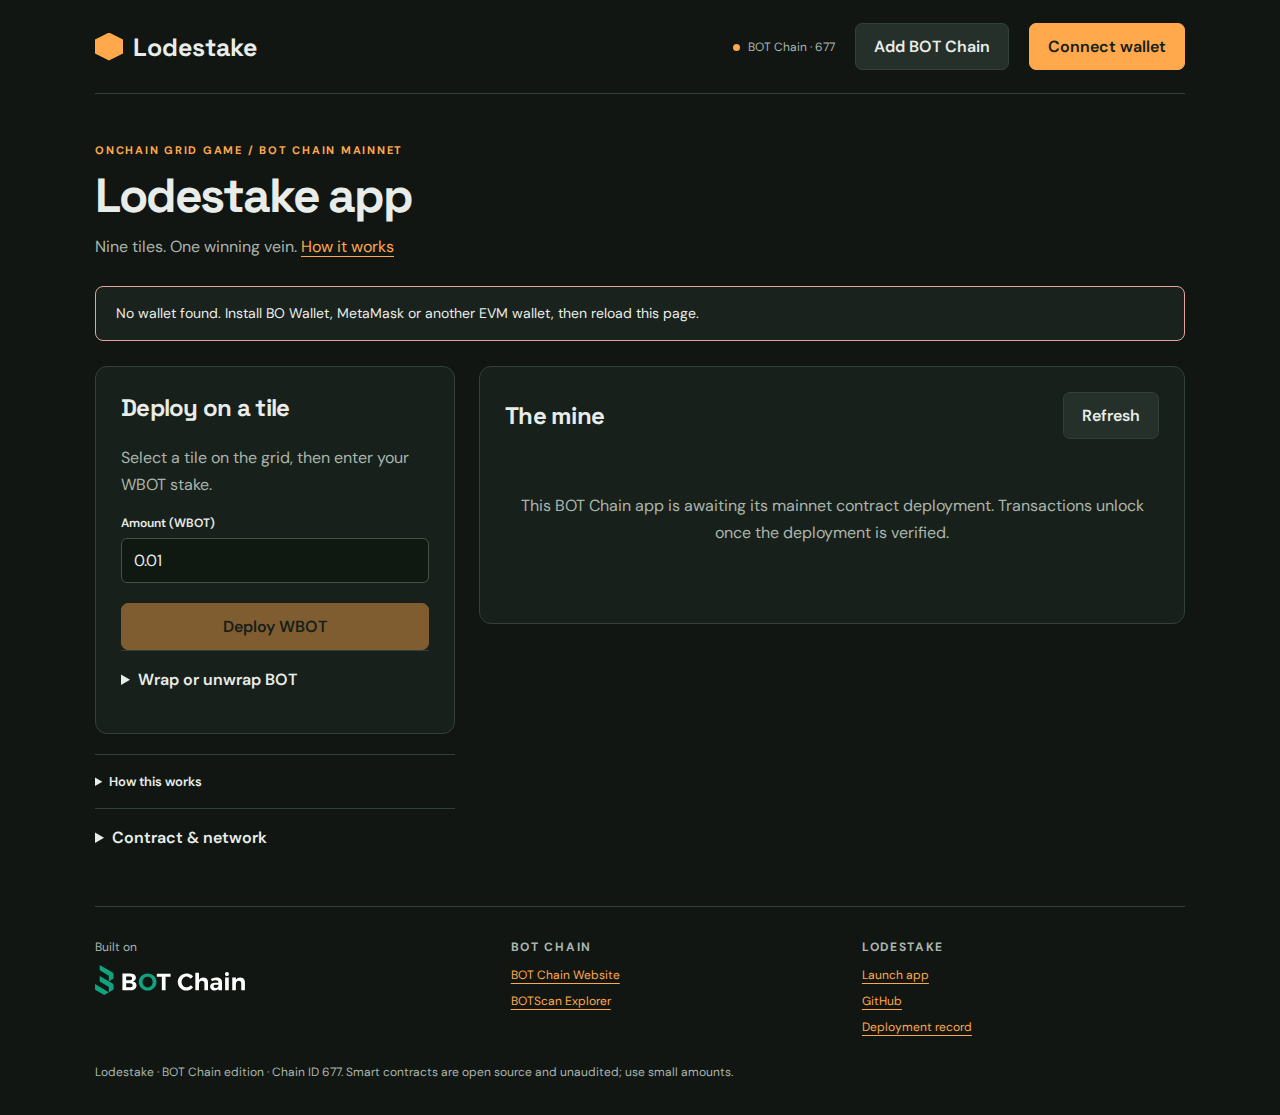
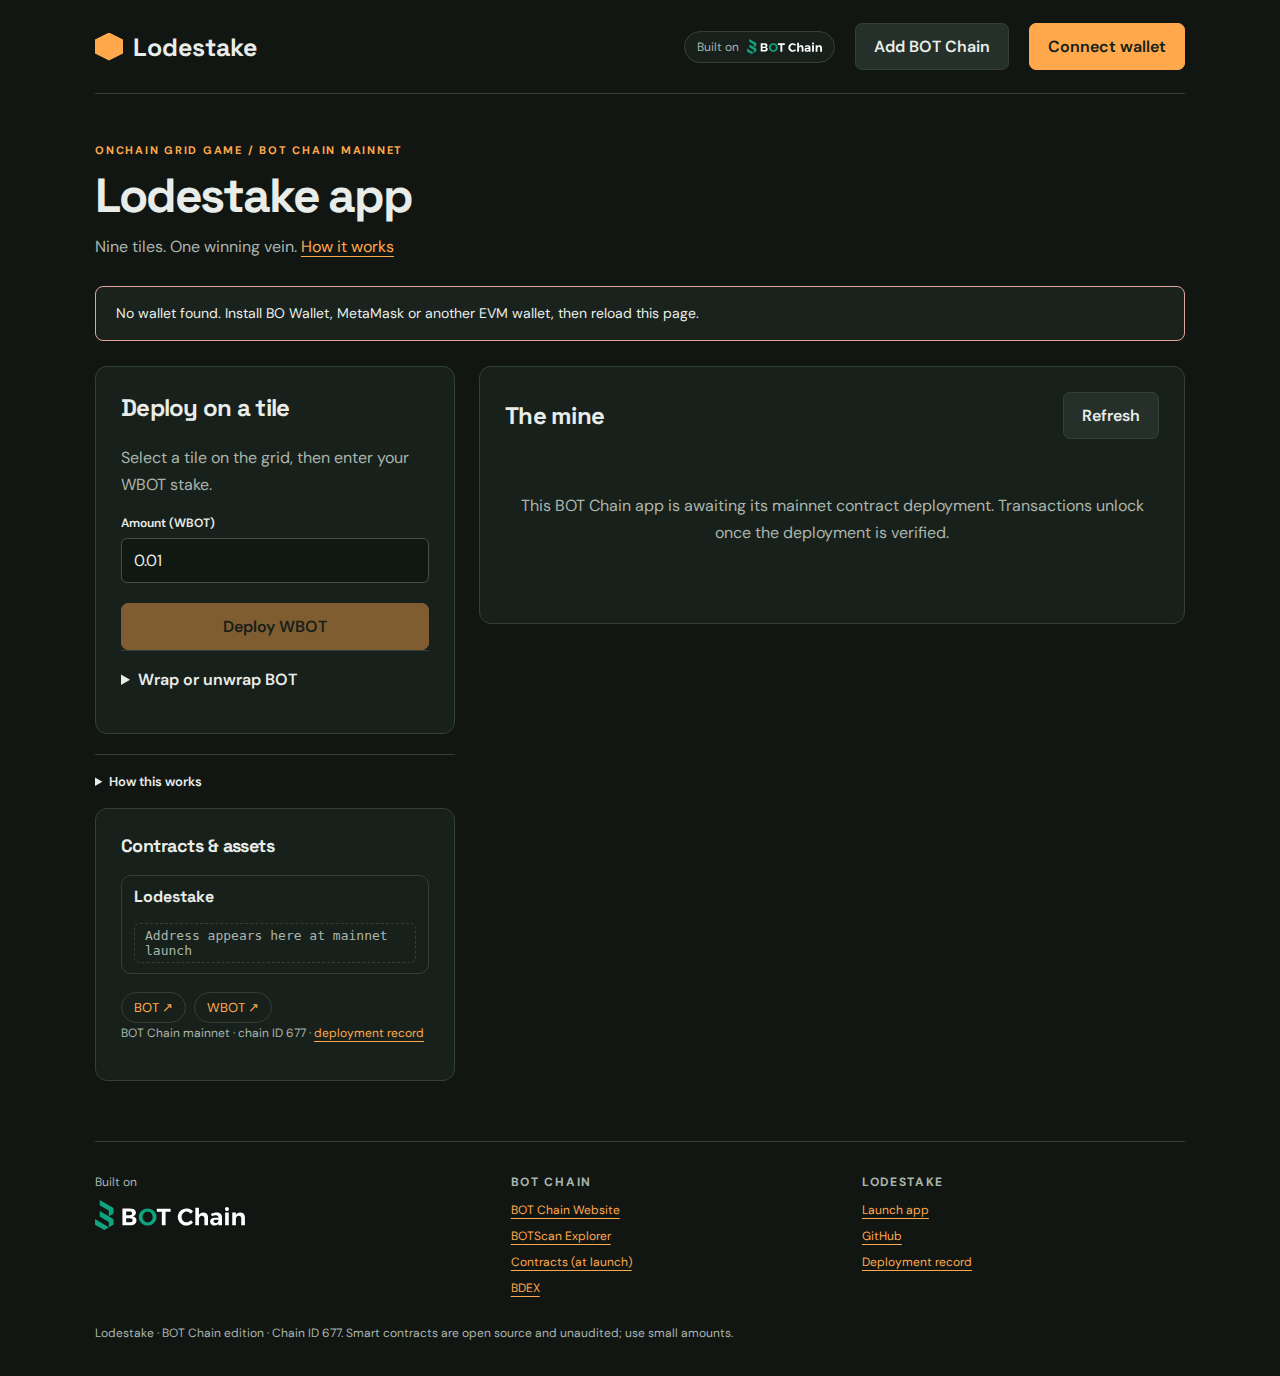
Move sites to Vercel; BOT Chain branding and linked contracts

diff --git a/web/landing.html b/web/landing.html
@@ -1,1 +1,1 @@
-<!doctype html><html lang="en"><head><meta charset="UTF-8"><meta name="viewport" content="width=device-width,initial-scale=1"><meta name="theme-color" content="#111613"><title>__NAME__ · BOT Chain</title><meta name="description" content="__DESCRIPTION__"><meta property="og:title" content="__NAME__ · BOT Chain"><meta property="og:description" content="__DESCRIPTION__"><meta property="og:type" content="website"><meta name="twitter:card" content="summary"><link rel="icon" href="/icon.svg" type="image/svg+xml"><link rel="stylesheet" href="/style.css"></head><body><a class="skip" href="#main">Skip to content</a><div class="shell"><header><a class="brand" href="/"><span class="mark" aria-hidden="true"></span>__NAME__</a><nav class="site-nav" aria-label="Page"><a href="#how">How it works</a><a href="#features">Features</a><a href="#faq">FAQ</a><a href="__REPO_URL__" target="_blank" rel="noopener noreferrer">GitHub</a></nav><div class="header-actions"><a class="button primary" href="/app/">Launch app</a></div></header><main id="main"><section class="hero"><div><span class="eyebrow">__EYEBROW__ / BOT CHAIN</span><h1>__LINE__</h1><p>__DESCRIPTION__</p><div class="cta-row"><a class="button primary" href="/app/">Launch app</a><a class="button" href="__REPO_URL__" target="_blank" rel="noopener noreferrer">View source</a></div></div><div class="hero-art" aria-hidden="true"><div class="art-grid"><span>01</span><span>02</span><span>03</span><span>04</span><span>__SYMBOL__</span><span>06</span><span>07</span><span>08</span><span>09</span></div></div></section>__LAUNCH__<section id="how" class="band"><span class="eyebrow">How it works</span><h2>Three steps, all onchain</h2><ol class="steps">__STEPS__</ol></section><section id="features" class="band"><span class="eyebrow">Features</span><h2>Why __NAME__</h2><div class="features">__FEATURES__</div></section><section id="onchain" class="band"><span class="eyebrow">Onchain</span><h2>Verify everything</h2><dl class="facts">__FACTS__</dl></section><section id="faq" class="band"><span class="eyebrow">FAQ</span><h2>Questions</h2><div class="faq">__FAQ__</div></section><section class="cta-band"><h2>__LINE__</h2><p>Connect BO Wallet, MetaMask or any EVM wallet on BOT Chain mainnet.</p><a class="button primary" href="/app/">Launch __NAME__</a></section></main>__FOOTER__</div></body></html>
+<!doctype html><html lang="en"><head><meta charset="UTF-8"><meta name="viewport" content="width=device-width,initial-scale=1"><meta name="theme-color" content="#111613"><title>__NAME__ · BOT Chain</title><meta name="description" content="__DESCRIPTION__"><meta property="og:title" content="__NAME__ · BOT Chain"><meta property="og:description" content="__DESCRIPTION__"><meta property="og:type" content="website"><meta name="twitter:card" content="summary"><link rel="icon" href="/icon.svg" type="image/svg+xml"><link rel="stylesheet" href="/style.css"></head><body><a class="skip" href="#main">Skip to content</a><div class="shell"><header><a class="brand" href="/"><span class="mark" aria-hidden="true"></span>__NAME__</a><nav class="site-nav" aria-label="Page"><a href="#how">How it works</a><a href="#features">Features</a><a href="#contracts">Contracts</a><a href="#faq">FAQ</a><a href="__REPO_URL__" target="_blank" rel="noopener noreferrer">GitHub</a></nav><div class="header-actions"><a class="chain-badge" href="https://www.botchain.ai/" target="_blank" rel="noopener noreferrer" aria-label="Built on BOT Chain"><span>Built on</span><img src="/botchain.svg" alt="BOT Chain" width="96" height="19"></a><a class="button primary" href="/app/">Launch app</a></div></header><main id="main"><section class="hero"><div><span class="eyebrow">__EYEBROW__ / BOT CHAIN</span><h1>__LINE__</h1><p>__DESCRIPTION__</p><div class="cta-row"><a class="button primary" href="/app/">Launch app</a><a class="button" href="__REPO_URL__" target="_blank" rel="noopener noreferrer">View source</a></div></div><div class="hero-art" aria-hidden="true"><div class="art-grid"><span>01</span><span>02</span><span>03</span><span>04</span><span>__SYMBOL__</span><span>06</span><span>07</span><span>08</span><span>09</span></div></div></section>__LAUNCH__<section id="how" class="band"><span class="eyebrow">How it works</span><h2>Three steps, all onchain</h2><ol class="steps">__STEPS__</ol></section><section id="features" class="band"><span class="eyebrow">Features</span><h2>Why __NAME__</h2><div class="features">__FEATURES__</div></section><section id="onchain" class="band"><span class="eyebrow">Onchain</span><h2>Verify everything</h2><dl class="facts">__FACTS__</dl></section><section id="contracts" class="band"><span class="eyebrow">Contracts &amp; BOT Chain assets</span><h2>Every address, on BOTScan</h2><p>Each link opens the contract or token on BOTScan, the BOT Chain explorer.</p><div class="contracts">__CONTRACTS__</div><h3 class="assets-title">BOT Chain assets used</h3><ul class="assets">__ASSETS__</ul></section><section id="faq" class="band"><span class="eyebrow">FAQ</span><h2>Questions</h2><div class="faq">__FAQ__</div></section><section class="cta-band"><h2>__LINE__</h2><p>Connect BO Wallet, MetaMask or any EVM wallet on BOT Chain mainnet.</p><a class="button primary" href="/app/">Launch __NAME__</a></section></main>__FOOTER__</div></body></html>

diff --git a/web/app.html b/web/app.html
@@ -1,1 +1,1 @@
-<!doctype html><html lang="en"><head><meta charset="UTF-8"><meta name="viewport" content="width=device-width,initial-scale=1"><meta name="theme-color" content="#111613"><title>__NAME__ App · BOT Chain</title><meta name="description" content="__DESCRIPTION__"><link rel="icon" href="/icon.svg" type="image/svg+xml"><link rel="stylesheet" href="/style.css"></head><body><a class="skip" href="#main">Skip to app</a><div class="shell"><header><a class="brand" href="/"><span class="mark" aria-hidden="true"></span>__NAME__</a><div class="header-actions"><span class="network">BOT Chain · 677</span><button id="add-chain" type="button">Add BOT Chain</button><button id="connect" type="button" class="primary">Connect wallet</button></div></header><main id="main"><section class="app-intro"><span class="eyebrow">__EYEBROW__ / BOT CHAIN MAINNET</span><h1>__NAME__ app</h1><p>__LINE__ <a href="/">How it works</a></p></section><div id="status" class="status" role="status" aria-live="polite">Checking deployment…</div><div id="workspace" class="layout"><aside><div id="controls" class="panel"></div><details class="rules"><summary>How this works</summary><div id="rules"></div></details><details><summary>Contract &amp; network</summary><div id="contract" class="record"></div></details></aside><section class="panel"><div class="section-head"><h2 id="list-title">Activity</h2><button id="refresh" type="button">Refresh</button></div><div id="records" aria-live="polite"><p class="empty">Loading onchain data…</p></div></section></div></main>__FOOTER__</div><dialog id="wallets" aria-labelledby="wallets-title"><form method="dialog"><h2 id="wallets-title">Choose a wallet</h2><p class="tiny">Any EVM wallet works on BOT Chain, including BO Wallet and MetaMask.</p><div id="wallet-list" class="wallet-list"></div><button value="cancel">Cancel</button></form></dialog><script type="module" src="/app.js"></script></body></html>
+<!doctype html><html lang="en"><head><meta charset="UTF-8"><meta name="viewport" content="width=device-width,initial-scale=1"><meta name="theme-color" content="#111613"><title>__NAME__ App · BOT Chain</title><meta name="description" content="__DESCRIPTION__"><link rel="icon" href="/icon.svg" type="image/svg+xml"><link rel="stylesheet" href="/style.css"></head><body><a class="skip" href="#main">Skip to app</a><div class="shell"><header><a class="brand" href="/"><span class="mark" aria-hidden="true"></span>__NAME__</a><div class="header-actions"><a class="chain-badge compact" href="https://www.botchain.ai/" target="_blank" rel="noopener noreferrer" aria-label="Built on BOT Chain"><span>Built on</span><img src="/botchain.svg" alt="BOT Chain" width="96" height="19"></a><button id="add-chain" type="button">Add BOT Chain</button><button id="connect" type="button" class="primary">Connect wallet</button></div></header><main id="main"><section class="app-intro"><span class="eyebrow">__EYEBROW__ / BOT CHAIN MAINNET</span><h1>__NAME__ app</h1><p>__LINE__ <a href="/">How it works</a></p></section><div id="status" class="status" role="status" aria-live="polite">Checking deployment…</div><div id="workspace" class="layout"><aside><div id="controls" class="panel"></div><details class="rules"><summary>How this works</summary><div id="rules"></div></details><div class="panel contracts-panel"><h2>Contracts &amp; assets</h2><div class="contracts">__CONTRACTS__</div><ul class="assets">__ASSETS__</ul><p class="tiny">BOT Chain mainnet · chain ID 677 · <a href="/deployment.json">deployment record</a></p></div></aside><section class="panel"><div class="section-head"><h2 id="list-title">Activity</h2><button id="refresh" type="button">Refresh</button></div><div id="records" aria-live="polite"><p class="empty">Loading onchain data…</p></div></section></div></main>__FOOTER__</div><dialog id="wallets" aria-labelledby="wallets-title"><form method="dialog"><h2 id="wallets-title">Choose a wallet</h2><p class="tiny">Any EVM wallet works on BOT Chain, including BO Wallet and MetaMask.</p><div id="wallet-list" class="wallet-list"></div><button value="cancel">Cancel</button></form></dialog><script type="module" src="/app.js"></script></body></html>

diff --git a/web/products/lodestake.js b/web/products/lodestake.js
@@ -1,4 +1,4 @@
-import {$,config,state,esc,fmt,button,action,field,form,amount,read,tx,approve,client,tokenAbi,wrapForms,chainTime,start} from '../core.js';
+import {$,config,state,esc,fmt,button,action,field,form,amount,read,tx,approve,client,tokenAbi,wrapForms,chainTime,asset,start} from '../core.js';
 let selectedTile=0;
 function controls(){
  $('list-title').textContent='The mine';
@@ -7,11 +7,11 @@ function controls(){
 }
 async function render(){
  const id=await read('Lodestake','currentRoundId'),r=await read('Lodestake','getRound',[id]),totals=await read('Lodestake','getTileTotals',[id]);
- let html=`<div class="row"><span>Round</span><strong>#${id}</strong></div><div class="row"><span>Pool</span><strong>${fmt(r.totalDeployed)} WBOT</strong></div><div class="row"><span>Deploy window ends</span><strong>${new Date(Number(r.endTime)*1000).toLocaleTimeString()}</strong></div><div class="grid" role="group" aria-label="Choose your tile">`;
+ let html=`<div class="row"><span>Round</span><strong>#${id}</strong></div><div class="row"><span>Pool</span><strong>${fmt(r.totalDeployed)} ${asset('WBOT')}</strong></div><div class="row"><span>Deploy window ends</span><strong>${new Date(Number(r.endTime)*1000).toLocaleTimeString()}</strong></div><div class="grid" role="group" aria-label="Choose your tile">`;
  for(let n=0;n<9;n++){const key=`tile${n}`;action(key,async()=>{selectedTile=n;});html+=`<button data-action="${key}" aria-pressed="${selectedTile===n}" aria-label="Tile ${n+1}, ${esc(fmt(totals[n]))} WBOT"><strong>${n+1}</strong><small>${esc(fmt(totals[n]))} WBOT</small></button>`;}html+='</div>';
  if(await chainTime()>=Number(r.endTime))html+=`<div class="actions">${button(r.settleRequested?'Finalize settlement':'Request settlement',()=>tx('Lodestake',r.settleRequested?'finalizeSettle':'requestSettle'),true)}</div>`;
  if(r.settleRequested)html+=`<p class="tiny">Settlement requested at block ${r.requestBlock}. Finalize after five blocks; expired rounds refund all stakes.</p>`;
- if(state.account){const balance=await client.readContract({address:config.infrastructure.WBOT,abi:tokenAbi,functionName:'balanceOf',args:[state.account]});html+=`<p class="tiny">Your balance: ${fmt(balance)} WBOT</p>`;}
+ if(state.account){const balance=await client.readContract({address:config.infrastructure.WBOT,abi:tokenAbi,functionName:'balanceOf',args:[state.account]});html+=`<p class="tiny">Your balance: ${fmt(balance)} ${asset('WBOT')}</p>`;}
  html+='<h3>Recent rounds</h3>';
  for(let old=id-1n;old>=1n&&old>=id-10n;old--){const round=await read('Lodestake','getRound',[old]);const pending=state.account?await read('Lodestake','pendingClaim',[old,state.account]):0n;html+=`<div class="item"><div class="row"><span>Round #${old}</span><strong>${round.refundMode?'Refund':round.totalDeployed===0n?'Empty':`Tile ${round.winningTile+1} won`}</strong></div>${pending>0n?button(`Claim ${fmt(pending)} WBOT`,()=>tx('Lodestake','claim',[old]),true):''}</div>`;}return html;
 }

diff --git a/web/core.js b/web/core.js
@@ -72,6 +72,8 @@ export const tx=(name,fn,args=[],value=0n,addr=config.contracts[name])=>transact
 export async function approve(token,spender,n){await wallet();const allowed=await client.readContract({address:token,abi:tokenAbi,functionName:'allowance',args:[state.account,spender]});if(allowed<n){if(allowed>0n)await transact(tokenAbi,token,'approve',[spender,0n]);await transact(tokenAbi,token,'approve',[spender,n]);}}
 export async function approveNFT(token,id,spender){await wallet();if((await client.readContract({address:token,abi:tokenAbi,functionName:'getApproved',args:[id]})).toLowerCase()!==spender.toLowerCase())await transact(nftAbi,token,'approve',[spender,id]);}
 export const wrapForms=()=>details('Wrap or unwrap BOT',form('wrap',field('wrap-amount','BOT to wrap','0.01','text','inputmode="decimal"'),'Wrap BOT',async f=>transact(tokenAbi,config.infrastructure.WBOT,'deposit',[],amount(f['wrap-amount'])))+form('unwrap',field('unwrap-amount','WBOT to unwrap','0.01','text','inputmode="decimal"'),'Unwrap WBOT',async f=>transact(tokenAbi,config.infrastructure.WBOT,'withdraw',[amount(f['unwrap-amount'])])));
+/** A BOT Chain asset symbol, linked to its BOTScan token page (BOT links to BOT Chain). Unknown symbols stay plain text. */
+export const asset=(symbol,address)=>{const k=String(symbol).toUpperCase(),a=config.assetLinks?.[k];const href=a?.href||(address?`https://scan.botchain.ai/token/${address}`:null);return href?`<a class="asset" href="${esc(href)}" target="_blank" rel="noopener noreferrer" title="${esc(a?.name||symbol)} on BOT Chain">${esc(symbol)}</a>`:esc(symbol);};
 export const mine=a=>!!state.account&&a?.toLowerCase()===state.account.toLowerCase();
 
 let product;
@@ -95,6 +97,5 @@ export function start(p){
  document.addEventListener('submit',e=>{if(!e.target.dataset.form)return;e.preventDefault();const f=e.target;run(()=>actions.get(f.dataset.form)(Object.fromEntries(new FormData(f))));});
  $('connect').onclick=()=>run(connect);$('add-chain').onclick=()=>run(addChain);$('refresh').onclick=()=>run(state.verified?refresh:boot);
  product.controls();
- $('contract').innerHTML=`<p>BOT Chain mainnet · Chain ID 677</p><p>${config.contracts[config.contract]?link(config.contracts[config.contract],'View app contract on BOTScan'):'Contract deployment pending'}</p><p><a href="/deployment.json">Public deployment record</a></p>`;
  boot();
 }

diff --git a/web/style.css b/web/style.css
@@ -50,3 +50,21 @@ dialog form>button{width:100%}
 .weights legend{font-size:12px;font-weight:600;padding:0 6px}
 .tiny.error{color:#e2a49c}
 .holdings{margin:6px 0 10px}
+
+.chain-badge{display:inline-flex;align-items:center;gap:8px;text-decoration:none;color:var(--muted);font-size:12px;border:1px solid var(--line);border-radius:999px;padding:7px 12px;background:#18201b}
+.chain-badge:hover{border-color:#10A37F}
+.chain-badge img{height:15px;width:auto}
+.contracts{display:grid;gap:10px;margin:18px 0}
+.contract{display:flex;justify-content:space-between;align-items:center;gap:16px;flex-wrap:wrap;border:1px solid var(--line);border-radius:10px;padding:14px 18px;background:#18201b}
+.contract strong{font-family:'Space Grotesk',sans-serif}
+.contract a,.contract .pending{font-family:ui-monospace,SFMono-Regular,Menlo,monospace;font-size:13px;overflow-wrap:anywhere}
+.contract .pending{color:var(--muted);border:1px dashed var(--line);border-radius:6px;padding:4px 10px}
+.assets-title{margin-top:26px}
+.assets{list-style:none;padding:0;margin:10px 0 0;display:flex;flex-wrap:wrap;gap:8px}
+.assets a{display:inline-flex;gap:6px;align-items:center;border:1px solid var(--line);border-radius:999px;padding:6px 12px;font-size:13px;text-decoration:none}
+.assets a:hover{border-color:var(--accent)}
+.contracts-panel h2{font-size:18px;margin-bottom:6px}
+.contracts-panel .contract{padding:10px 12px}
+a.asset{text-decoration-thickness:1px}
+@media(max-width:760px){.chain-badge span{display:none}.chain-badge.compact{display:none}}
+@media(max-width:480px){header{gap:10px}.header-actions{gap:6px}.chain-badge{padding:6px 8px}.chain-badge img{height:12px}.header-actions a.button{padding:9px 11px;font-size:13px}.brand{font-size:19px;gap:8px}.mark{width:22px;height:22px}}

diff --git a/README.md b/README.md
@@ -4,7 +4,7 @@
 
 **Status:** contracts are tested on a BOT Chain mainnet fork; the mainnet deployment is pending.
 
-- Website and app: https://lodestake-botchain.davidopuene8.workers.dev (app at [`/app/`](https://lodestake-botchain.davidopuene8.workers.dev/app/))
+- Website and app: https://lodestake.vercel.app (app at [`/app/`](https://lodestake.vercel.app/app/))
 - Network: BOT Chain mainnet, chain ID 677 · [BOT Chain](https://www.botchain.ai/) · [BOTScan](https://scan.botchain.ai/)
 
 ![Lodestake landing page](docs/lodestake-landing-1280.png)
@@ -61,7 +61,7 @@ node scripts/deploy.mjs && node scripts/fork-check.mjs
 
 ### Deploy
 
-`scripts/deploy.mjs` reads the deployer key from `BOT_SIGNER_FILE` (default `~/.config/botchain-wave1/deployer.env`, never committed), refuses to broadcast on mainnet without `BOT_MAX_GAS_BOT`, and journals every transaction to `deployments/mainnet.json` so it can resume. `python3 scripts/publish.py` publishes the site with a one-hour, Workers-only Cloudflare token and revokes it afterwards.
+`scripts/deploy.mjs` reads the deployer key from `BOT_SIGNER_FILE` (default `~/.config/botchain-wave1/deployer.env`, never committed), refuses to broadcast on mainnet without `BOT_MAX_GAS_BOT`, and journals every transaction to `deployments/mainnet.json` so it can resume. `npm run publish` deploys the built site to Vercel as a static production deployment.
 
 ## License
 
